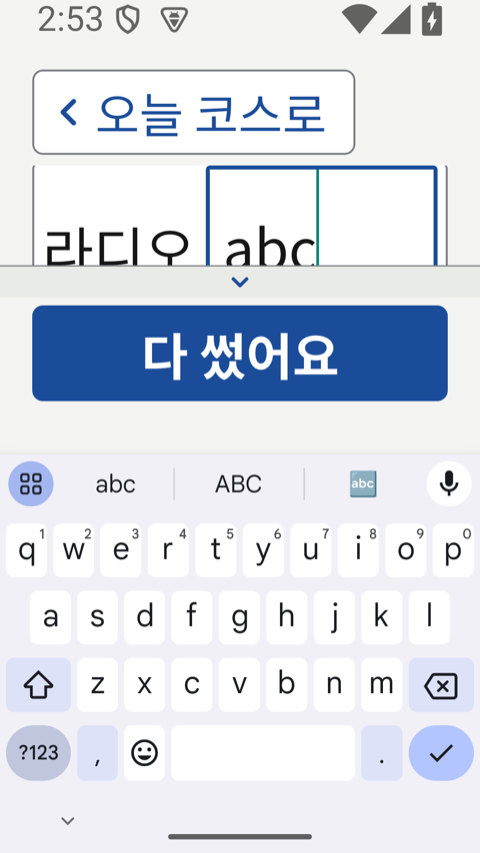
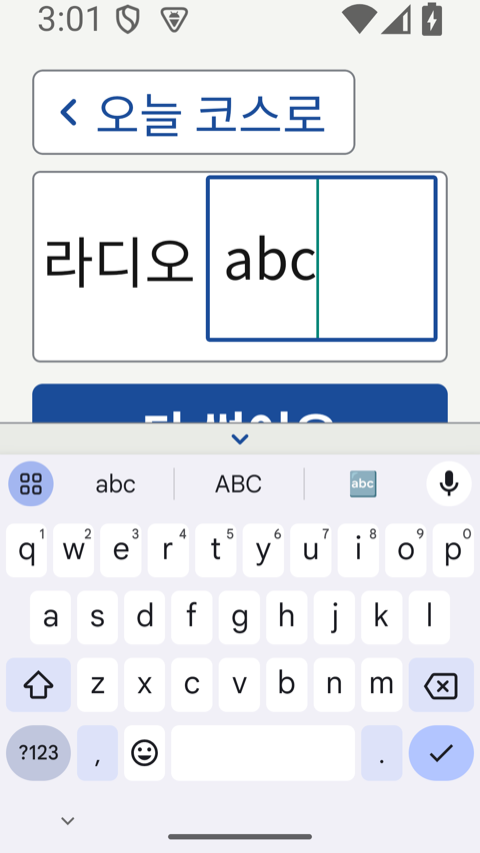
feat(p6): 리드 결정 b — 200% 자판 열림이면 Dock 해제·다 썼어요는 입력 칸 바로 아래, 자판 닫히면 Dock, 완료 키 = 다 썼어요 + 캡처

diff --git a/app/src/features/course/KeyboardStep.tsx b/app/src/features/course/KeyboardStep.tsx
@@ -223,6 +223,9 @@ export function KeyboardStep({navigation, route}: NativeStackScreenProps<ParentP
           // 닫힘: 넘어가기는 Dock(넘치면 본문 끝으로, R-12). 자판 열림은 위 줄(100%) 또는 본문(200%)
           secondary: open ? undefined : skipStrong ? {kind: 'secondary', label: k.skip, disabled: busy, testID: 'kb-skip-strong', onPress: skip} : {kind: 'text', label: k.skip, disabled: busy, onPress: skip},
         };
+  // 리드 결정(b, 11-20, 시안 변경): 200% 자판 열림에서는 Dock 을 풀고 '다 썼어요'를 입력 칸 바로 아래 본문에. 보이는 창(약 75dp)이 모자라
+  //   카드가 '더 있음' 띠에 가렸다(에뮬레이터 실측). 자판이 닫히면 Dock 으로 돌아온다
+  const releaseDock = open && large && !error;
   const asideSkip = open && !large ? <Button kind="text" size="inline" label={k.skip_short} accessibilityHint={k.skip} disabled={busy} onPress={skip} testID="kb-skip-top" /> : undefined;
 
   return (
@@ -233,7 +236,7 @@ export function KeyboardStep({navigation, route}: NativeStackScreenProps<ParentP
       header={<StepHeader name={copy.course.step.hangul} n={3} />}
       stepInfo={stepA11y(copy.course.step.hangul, 3)}
       onViewport={setViewport}
-      dock={dock}>
+      dock={releaseDock ? undefined : dock}>
       {!error ? null : <StepErrorBanner error={error} />}
       {phase === 'matched' ? (
         // 알림은 announceForAccessibility 1회만(R11). liveRegion 을 같이 두면 두 번 읽힌다
@@ -292,10 +295,21 @@ export function KeyboardStep({navigation, route}: NativeStackScreenProps<ParentP
           autoCapitalize="none"
           returnKeyType="done"
           blurOnSubmit
+          // 자판 '완료' 키 = '다 썼어요'(한 글자 이상일 때). 리드 결정(b) 확인 항목
+          onSubmitEditing={() => {
+            if (hasText && !busy) {
+              pressDone();
+            }
+          }}
           maxFontSizeMultiplier={ds.type.fieldInput.maxFontScale}
           style={[styles.input, open ? styles.inputOpen : null, inputText, kbOpen ? styles.inputFocused : null]}
         />
       </View>
+      {releaseDock ? (
+        <View testID="kb-done-inline">
+          <Button label={copy.course.next.hangul} buttonRef={doneRef} disabled={!hasText} disabledReason={k.need_one} loading={busy} onPress={pressDone} />
+        </View>
+      ) : null}
       {roman ? (
         <Text testID="kb-roman" role="sub">{k.roman_hint}</Text>
       ) : null}

diff --git a/app/__tests__/p6KeyboardOpen.test.tsx b/app/__tests__/p6KeyboardOpen.test.tsx
@@ -43,6 +43,48 @@ const openKb = async (input: ReturnType<typeof screen.getByLabelText>) => {
   });
 };
 
+test('리드 결정(b): 200% 자판 열림이면 Dock 을 풀고 다 썼어요는 입력 칸 바로 아래, 자판이 닫히면 Dock 으로 돌아온다', async () => {
+  mockFontScale = 2;
+  const input = await toP6();
+  expect(within(screen.getByTestId('screen-dock')).getByRole('button', {name: '다 썼어요'})).toBeTruthy();
+  await openKb(input);
+  expect(screen.queryByTestId('screen-dock')).toBeNull();
+  const inline = screen.getByTestId('kb-done-inline');
+  expect(within(inline).getByRole('button', {name: '다 썼어요'})).toBeTruthy();
+  // 순서: 카드(입력 칸) → 다 썼어요
+  const ids = screen.root.findAll(n => typeof n.type === 'string' && ['kb-card', 'kb-done-inline'].includes(n.props?.testID)).map(n => n.props.testID);
+  expect([...new Set(ids)]).toEqual(['kb-card', 'kb-done-inline']);
+  await act(async () => {
+    (kbHandlers.keyboardDidHide ?? []).forEach(f => f());
+    fireEvent(input, 'blur');
+  });
+  expect(screen.queryByTestId('kb-done-inline')).toBeNull();
+  expect(within(screen.getByTestId('screen-dock')).getByRole('button', {name: '다 썼어요'})).toBeTruthy();
+});
+
+test('100% 자판 열림은 Dock 그대로(결정 b 는 200%에서만)', async () => {
+  const input = await toP6();
+  await openKb(input);
+  expect(screen.queryByTestId('kb-done-inline')).toBeNull();
+  expect(within(screen.getByTestId('screen-dock')).getByRole('button', {name: '다 썼어요'})).toBeTruthy();
+});
+
+test("자판 '완료' 키 = 다 썼어요(한 글자 이상일 때만)", async () => {
+  const input = await toP6();
+  await openKb(input);
+  await act(async () => {
+    fireEvent(input, 'submitEditing');
+  });
+  expect(screen.queryByText('낱말을 한 번 더 볼까요?')).toBeNull(); // 빈칸이면 아무 일 없음
+  await act(async () => {
+    fireEvent.changeText(input, '가');
+  });
+  await act(async () => {
+    fireEvent(input, 'submitEditing');
+  });
+  await waitFor(() => screen.getByText('낱말을 한 번 더 볼까요?'));
+});
+
 test('입력한 글자 위쪽이 잘리지 않는다 — 입력 칸은 줄높이를 고정하지 않고 세로 가운데(에뮬레이터 200% 실측: 글자 34×1.5=51 > 줄높이 44 라 위가 잘렸다)', async () => {
   const input = await toP6();
   const st = StyleSheet.flatten(input.props.style);

diff --git a/docs/team/qa/evidence/2026-11-20-p6/README.md b/docs/team/qa/evidence/2026-11-20-p6/README.md
@@ -9,4 +9,6 @@
 | `320-200-open-before.png`·`320-200-open-dump.txt` | 수정 전, 320×640, 자판 열림 | '라디오'와 입력 칸이 한 줄(#147 M2 확인) |
 | `320-200-typed-before.png` | 수정 전, 320×640, 'abc' 입력 | 칸 안 글자 위쪽 절반이 잘림 |
 | `360-200-typed-before.png` | 수정 전, 360×640, 'abc' 입력 | 같은 잘림 |
-| `360-200-typed-after.png` | 수정 뒤(줄높이 뺌), 360×640, 'abc' 입력 | 칸 안 글자 잘림은 없어졌지만, 칸이 커져 카드가 보이는 창(약 75dp)을 넘어 아래가 '더 있음' 띠에 가림 — 디자인 결정 필요(#PR 본문) |
+| `360-200-typed-lineheight-only.png` | 줄높이만 뺐을 때, 360×640, 'abc' | 칸 안 글자 잘림은 없어졌지만 칸이 커져 카드가 보이는 창(약 75dp)을 넘어 '더 있음' 띠에 가림 |
+| `360-200-typed-after.png`·`360-200-open-after-dump.txt` | 최종(줄높이 뺌 + 리드 결정 b: 200% 자판 열림 Dock 해제), 360×640 | 카드(라디오 + 칸) 전체가 보이고 글자 잘림 없음. '다 썼어요'는 카드 바로 아래 본문(띠 아래로 이어짐, 스크롤 또는 자판 '완료' 키) |
+| `320-200-typed-after.png` | 최종, 320×640 | 같다. 카드 위 테두리가 BackLink 줄 아래로 조금 밀림 |

diff --git a/DECISIONS.md b/DECISIONS.md
@@ -588,3 +588,7 @@
 - 막힘(시스템 창 안 뜸): 본문을 notice 톤 안내 한 줄로 바꿔 끼움(디자인, '내가 잘못했다'로 읽히지 않게), 닫는 말 '닫기'(이미 서버 동의·다시 묻지 않음, ds A5 close), 설정에서 켜고 돌아오면 다시 읽어 알리고 닫음
 - '알려 주세요' 아래 미리 알림 한 줄(ds Dialog actionHint), 200% 넘침 '더 있음' 띠, 닫힌 뒤 초점은 맨 위 화면 제목(접근성 M1~M4·L2)
 - E5(push_prompt_shown)는 서버 레인 몫 — N1Prompt 에 TODO. '안 받을게요'를 denied 이벤트에 섞지 않음
+
+## 2026-11-20 P6 200% 자판 열림 시 Dock 해제(시안 변경, 리드 결정 b)
+- 200% 자판 열림에서만 Dock 을 풀고 '다 썼어요'를 입력 칸 바로 아래 본문에. 자판이 닫히면 Dock 으로. 자판 '완료' 키도 '다 썼어요'(한 글자 이상)
+- 이유: 보이는 창(약 75dp)이 카드 + 입력 칸(글자 51)을 담지 못해 '더 있음' 띠에 가렸다(에뮬레이터 실측). 열린 동안 할 일은 '쓰기 → 다 썼어요' 하나 / 버린 안: 글자 상한 1.2(200% 사용자에게 다시 작게), BackLink 줄 얇게(공간 부족)
